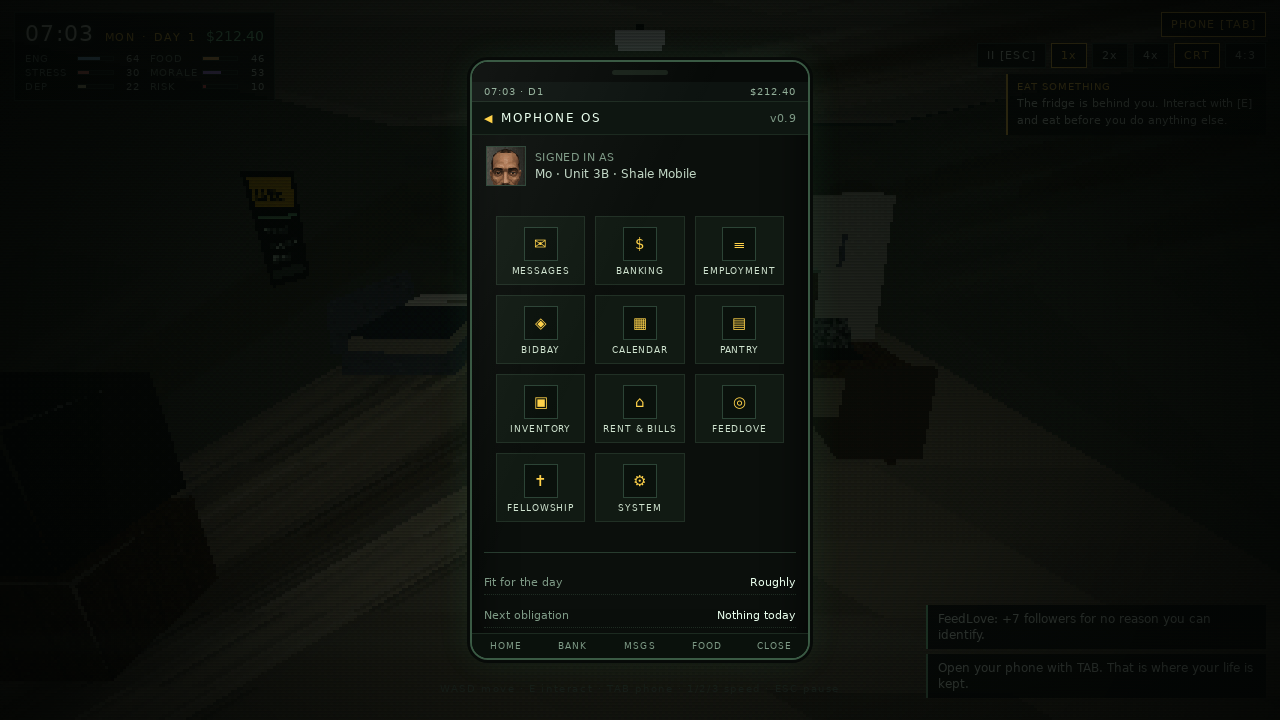
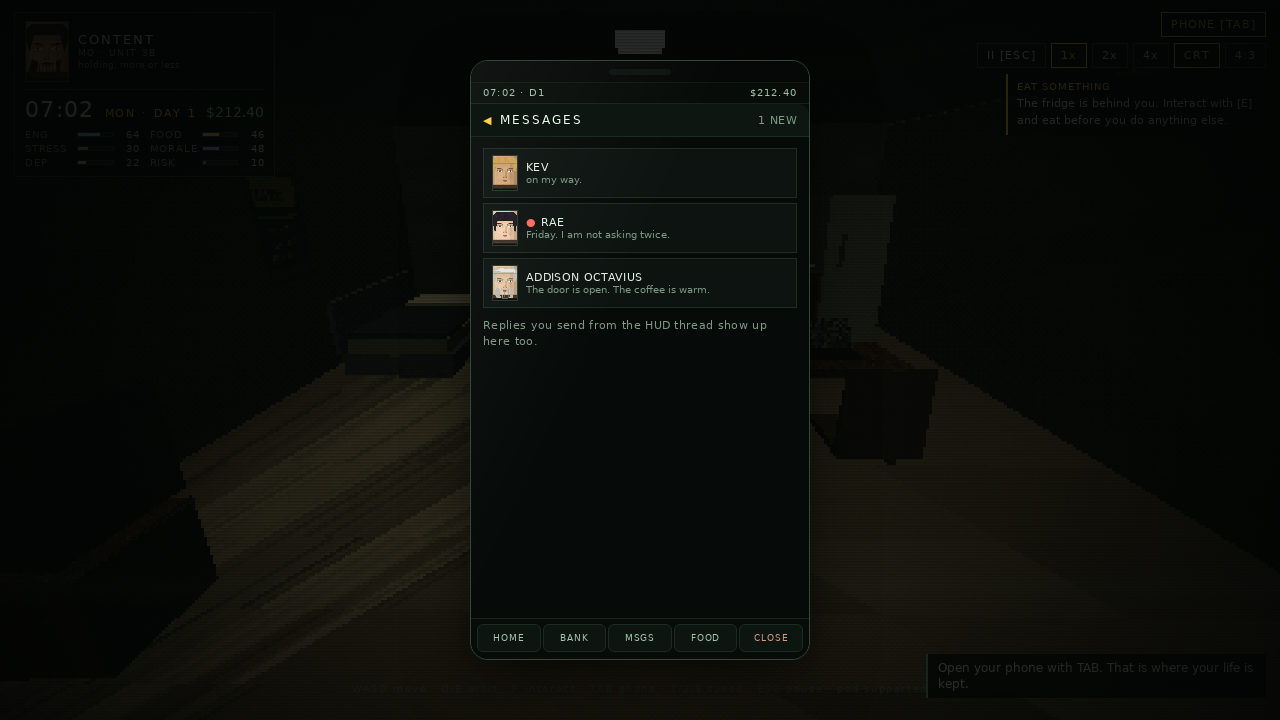
Give the phone a proper chassis and refresh its screenshots
Rounded bezel, status bar and an app dock, so the device reads as a smartphone rather than a
window, and the README shows the new inbox and chat view.

diff --git a/styles/main.css b/styles/main.css
@@ -460,3 +460,34 @@ html, body {
 }
 .chat__chip:hover { border-color: var(--gold-deep); color: #fff; }
 .chatlist { display: flex; align-items: center; gap: 8px; }
+
+/* ---------- phone chassis: bezel, status bar, dock ---------- */
+.phone {
+  border-radius: 18px;
+  border: 1px solid #2f4a3a;
+  box-shadow: inset 0 0 0 3px #0a0f0c, inset 0 0 0 4px #24382c, 0 22px 60px rgba(0,0,0,.6);
+  background: #060a08;
+}
+.phone__notch {
+  height: 22px; background: #050806; border-bottom: 1px solid #101a13;
+  border-radius: 14px 14px 0 0; position: relative;
+}
+.phone__notch i { width: 62px; height: 6px; background: #0d1410; border-radius: 6px; }
+.phone__bar {
+  font-size: 10px; letter-spacing: .12em; color: #9fbfa9;
+  padding: 4px 12px 5px; border-bottom: 1px solid #16241b; background: #070c09;
+}
+.phone__nav {
+  border-top: 1px solid #16241b; background: #070c09;
+  display: grid; grid-template-columns: repeat(5, 1fr); gap: 2px; padding: 5px 6px 7px;
+  border-radius: 0 0 16px 16px;
+}
+.phone__nav button {
+  font-family: var(--mono); font-size: 9px; letter-spacing: .1em; padding: 8px 2px;
+  background: #0d1510; border: 1px solid #1b2c21; color: #a8c4ae; cursor: pointer; border-radius: 6px;
+}
+.phone__nav button:hover { background: #16241b; color: #fff; border-color: var(--gold-deep); }
+.phone__nav button[data-nav="close"] { color: #d99a8a; }
+.phone__body { background: #060a08; }
+.appbtn { border-radius: 10px; }
+.app__header { border-radius: 10px 10px 0 0; }
